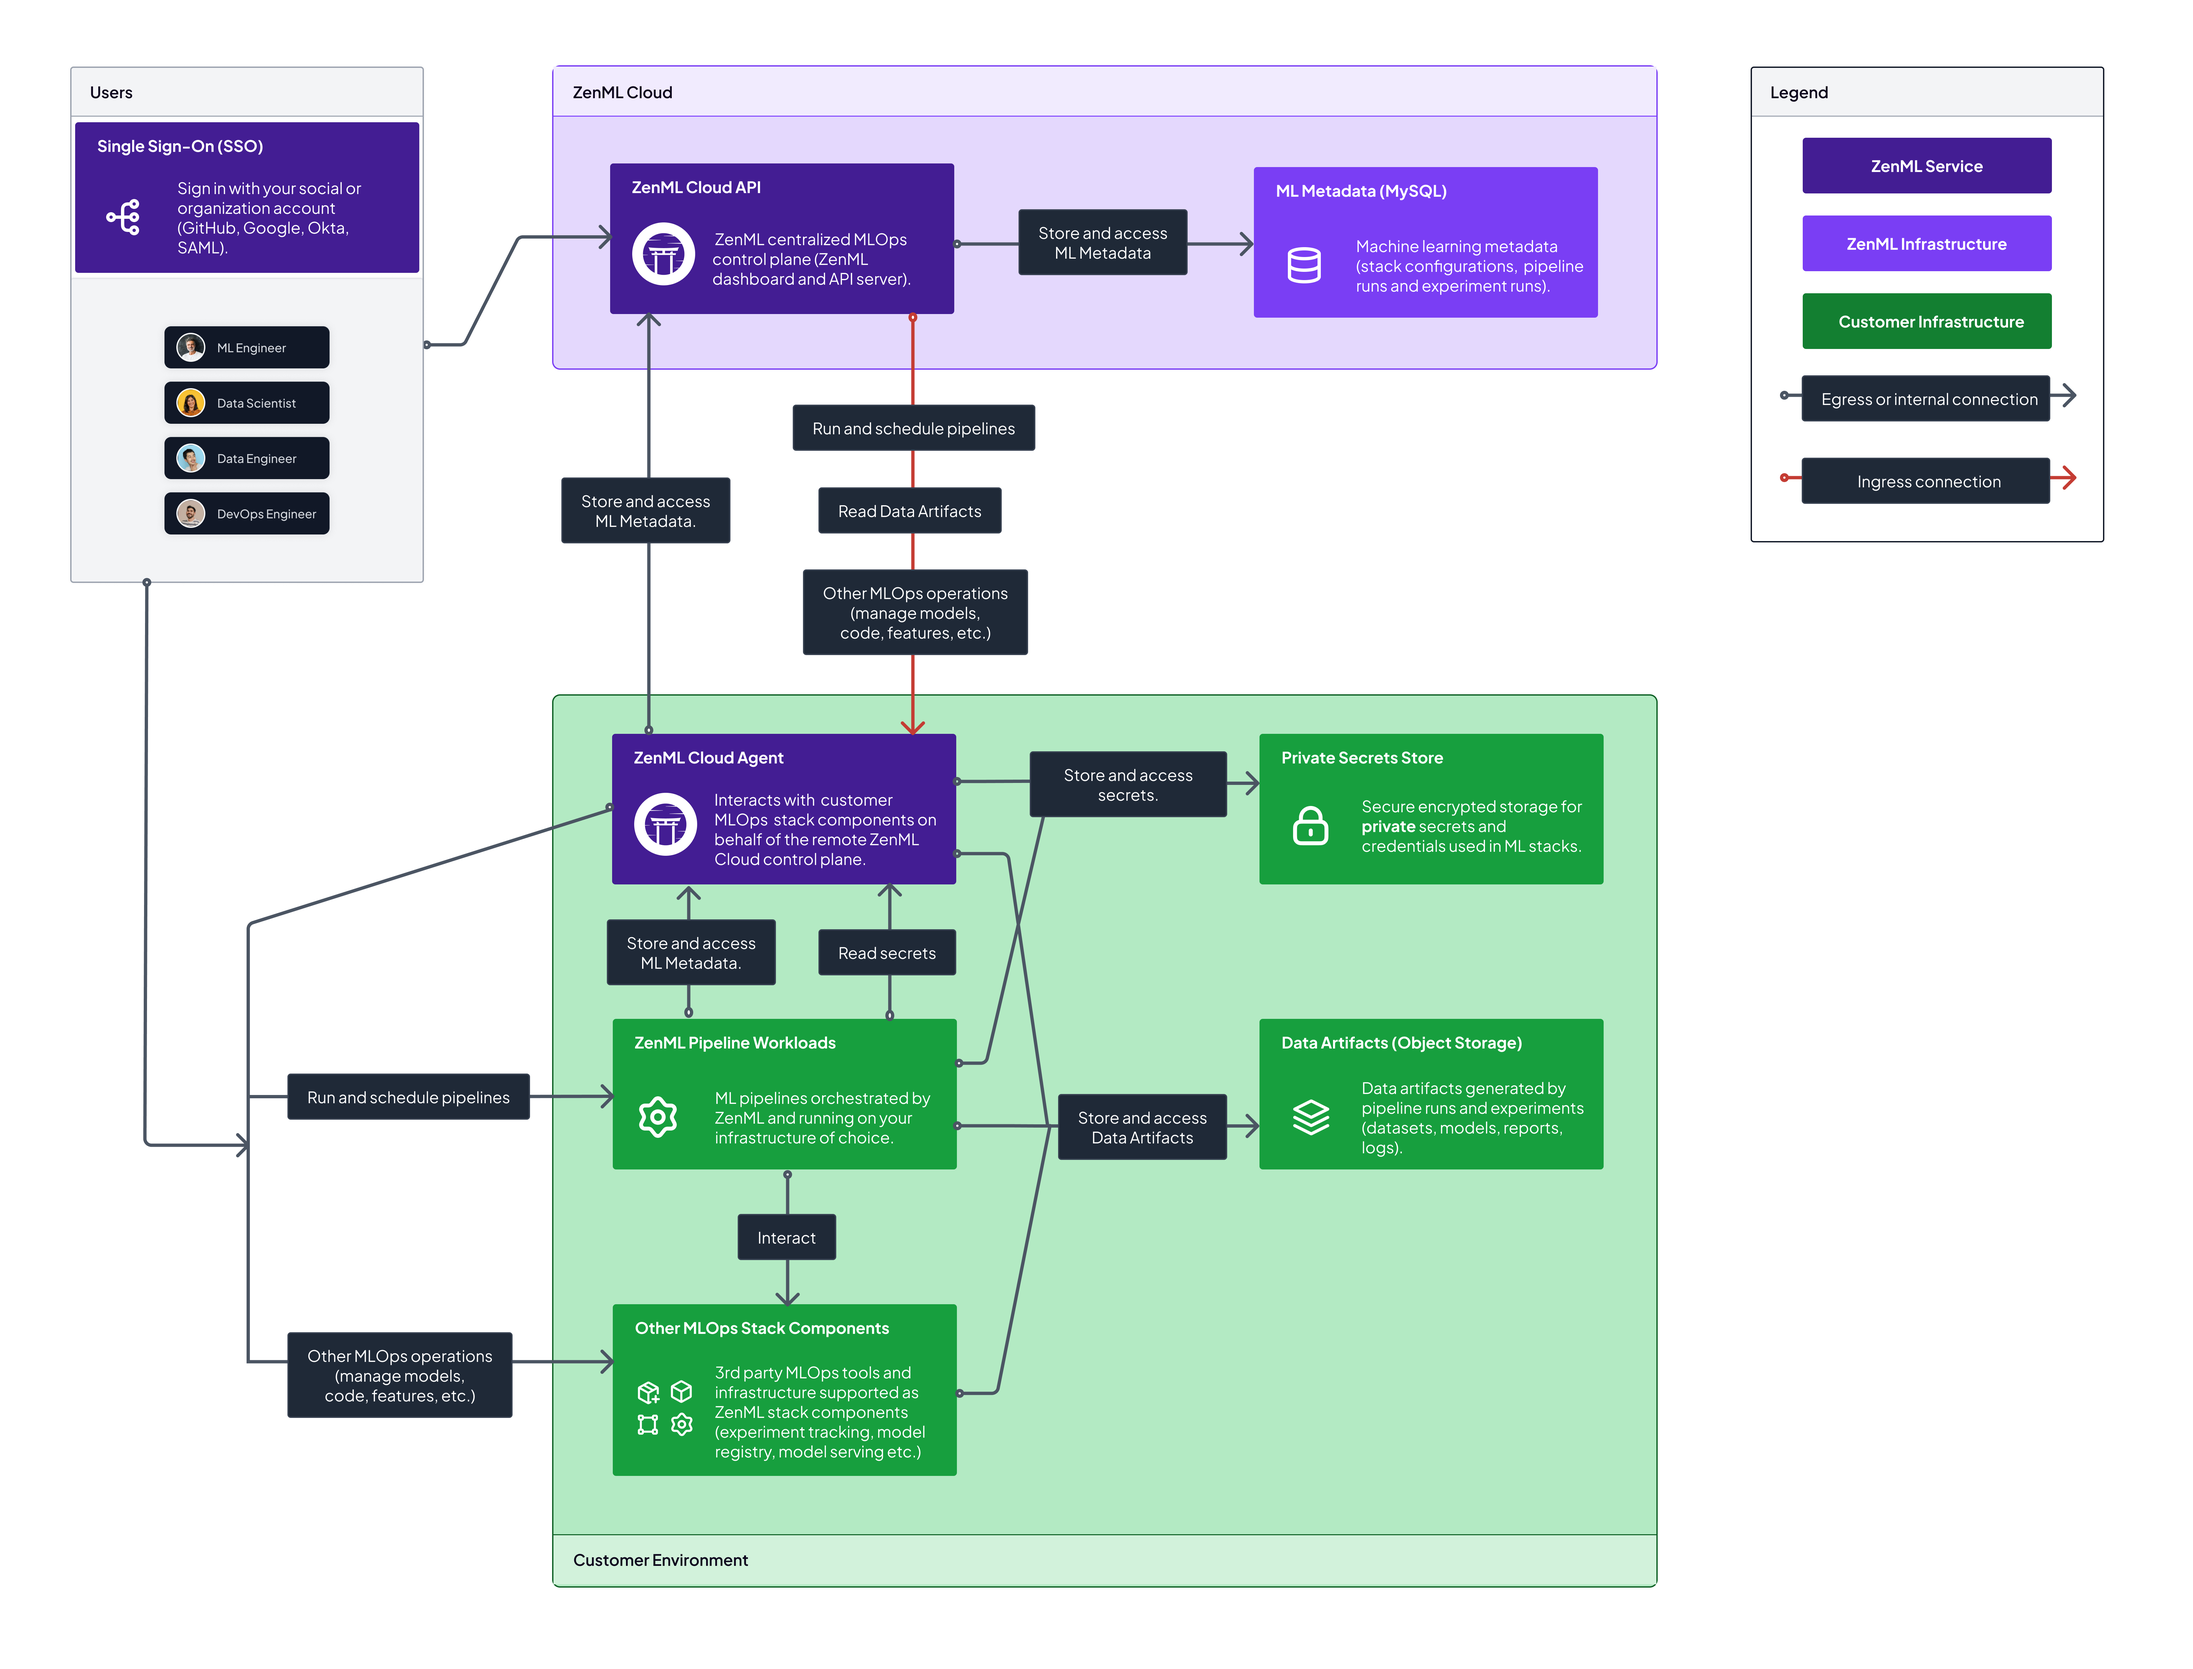
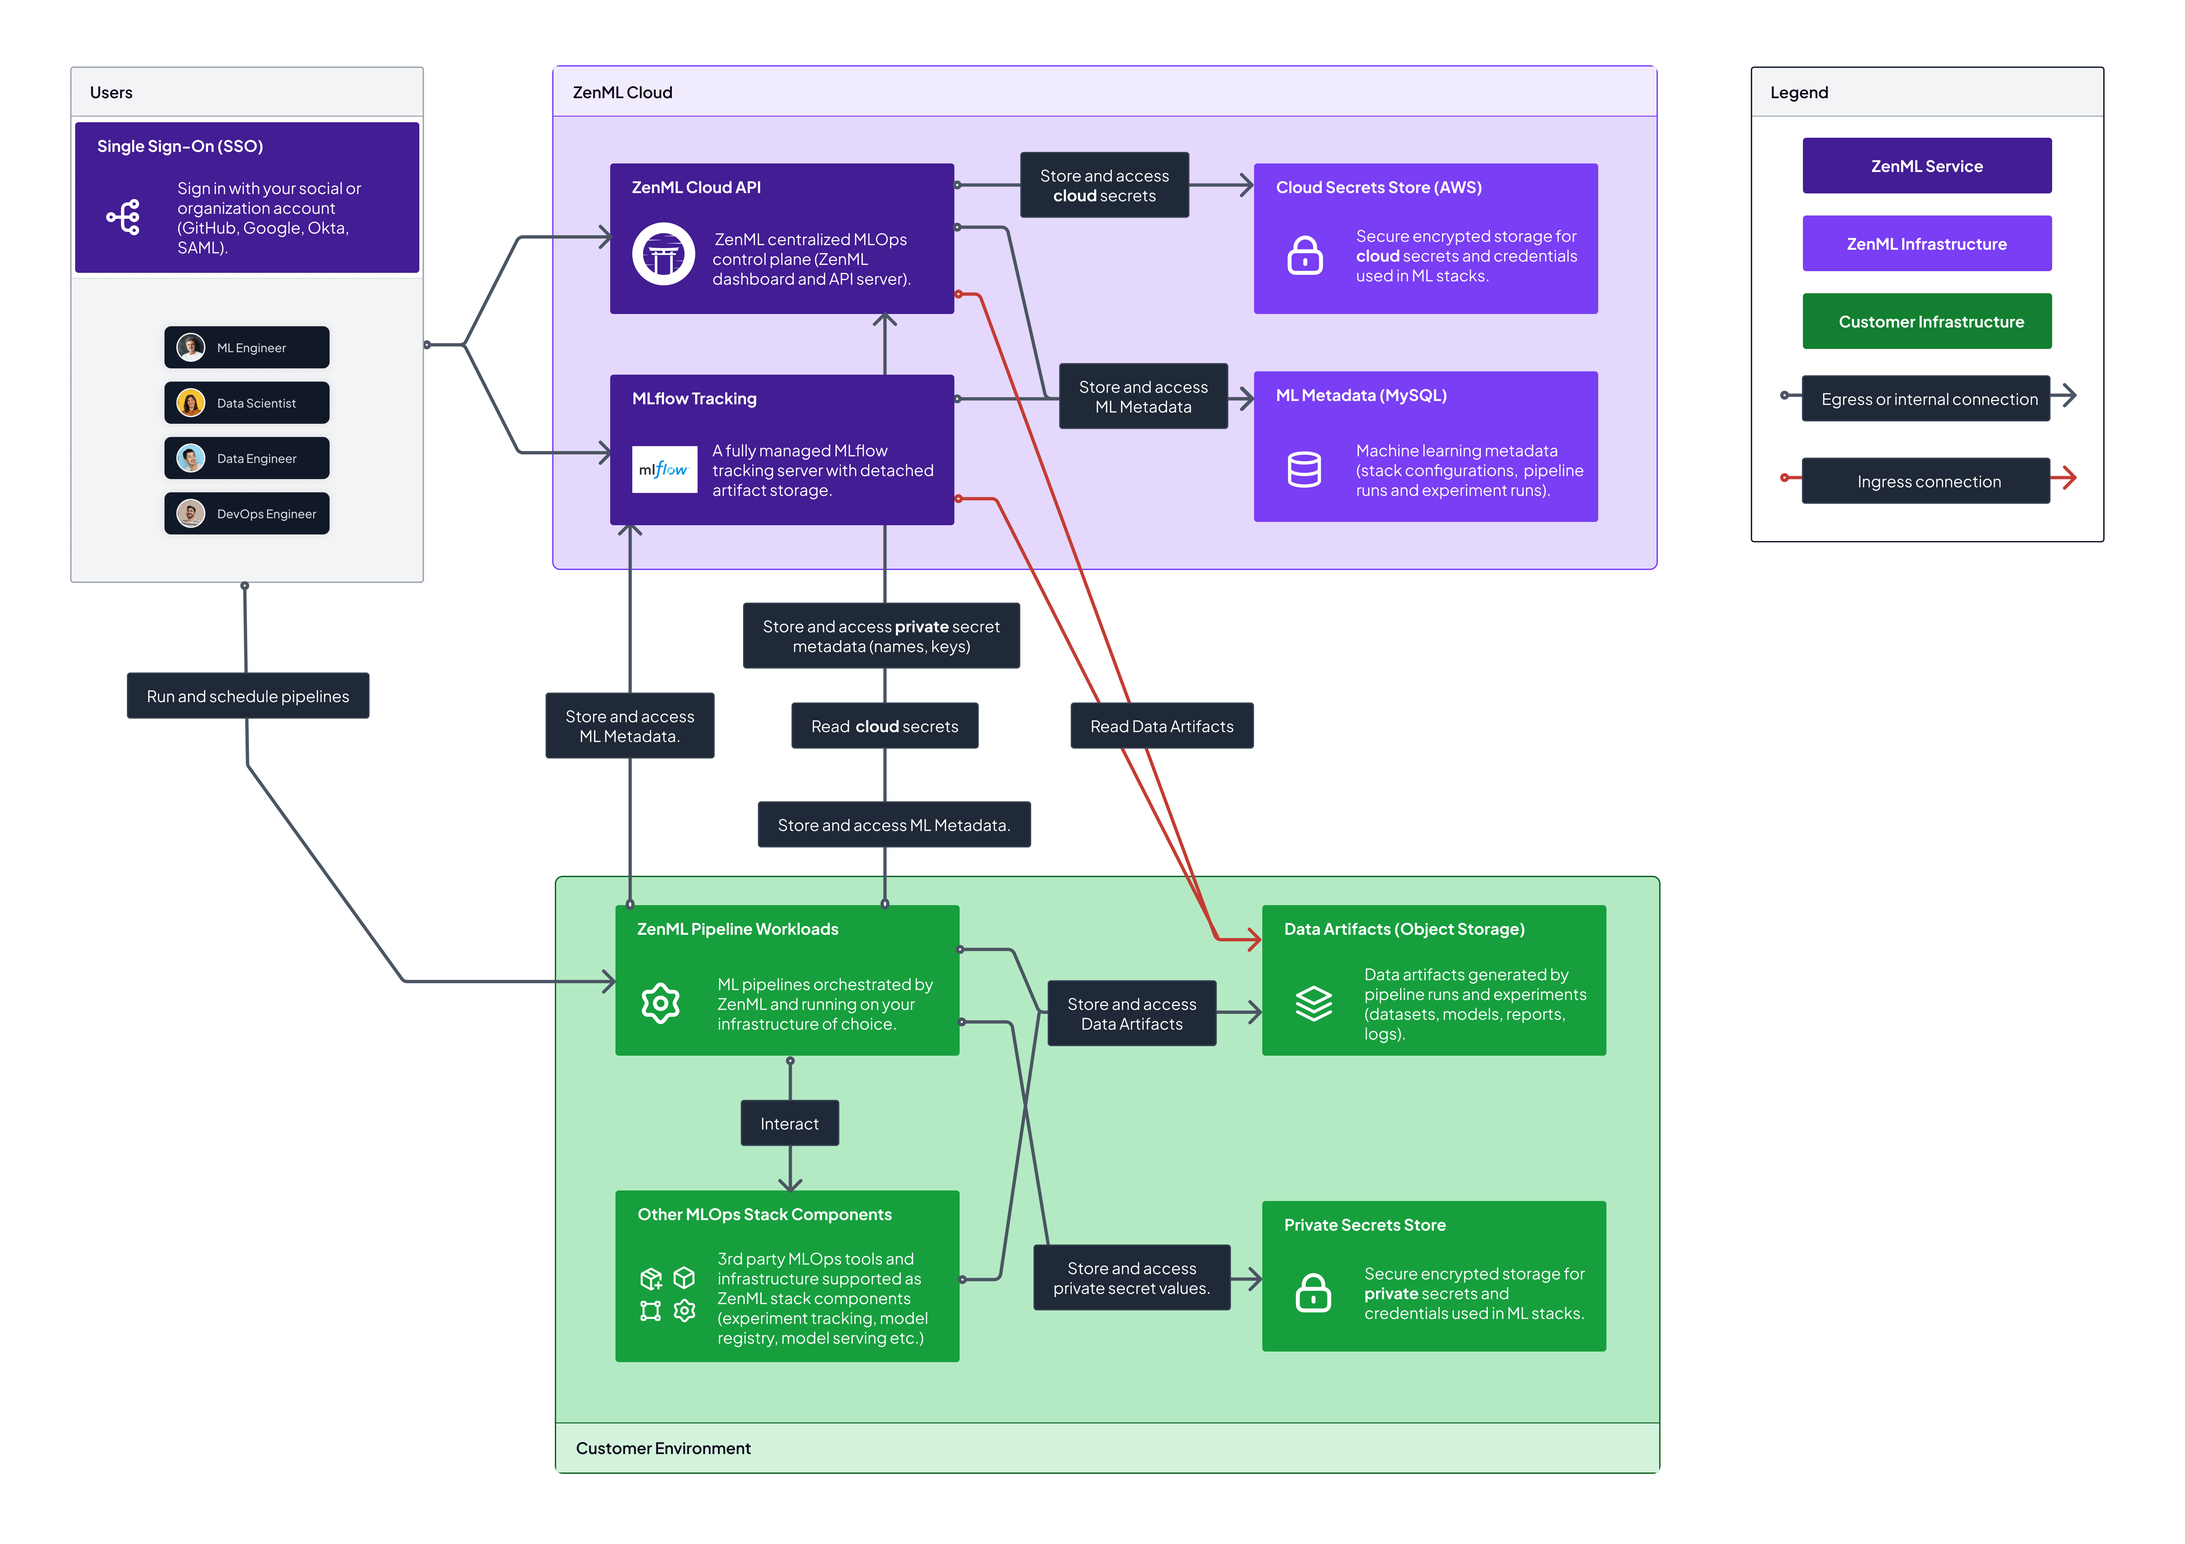
Added scenarios

diff --git a/docs/book/deploying-zenml/zenml-cloud/cloud-system-architecture.md b/docs/book/deploying-zenml/zenml-cloud/cloud-system-architecture.md
@@ -34,7 +34,7 @@ In this phase, the scenarios below are experimental and subject to change. For n
 
 In this scenario, all services are hosted on the ZenML Cloud infrastructure. The ZenML Cloud API and MLflow Tracking store secrets and data on the ZenML side. The Cloud API interact with the customer cloud for certain actions like triggering pipelines, deploying models etc.
 
-This scenario is meant for customers who want to get started quickly with ZenML Cloud and can to a certain extend expose ingress connections to an external SaaS provider. 
+This scenario is meant for customers who want to get started quickly with ZenML Cloud and can to a certain extent expose ingress connections to an external SaaS provider. Importantly, the data and secrets are all stored on ZenML Cloud side.
 
 ## Scenario 2a: Hybrid SaaS
 
@@ -42,11 +42,21 @@ This scenario is meant for customers who want to get started quickly with ZenML 
 <figure><img src="../../.gitbook/assets/cloud_architecture_scenario_2a.png" alt=""><figcaption><p>Scenario 2a: Hybrid SaaS deployment</p></figcaption></figure>
 </div>
 
+This scenario builds on top of Scenario 1, with the exception being that the "Data Artifacts" move over the customer cloud. This can be set up quite easily by setting up an [artifact store](../../stacks-and-components/component-guide/artifact-stores/) with your MLOps stack.
+
+In this scenario, the ZenML Cloud only stores metadata while the customer cloud keeps potentially sensitive customer data. However, if the customer wants access to special ZenML Cloud features like viewing artifacts on the dashboard, triggering pipeline runs, etc then they have to also provide [connectors](../../stacks-and-components/auth-management/service-connectors-guide.md) which are ultimately stored as secrets on the ZenML side. Therefore, while this scenario keeps the data on customer side, it still gives access to ZenML Cloud to trigger actions via an ingress connection over the internet into the customer cloud.
+
+Note, that ZenML encrypts all customer secrets at transit and at rest.
+
 ## Scenario 2b: Hybrid SaaS + Private Secret Store
 
 <div data-full-width="true">
 <figure><img src="../../.gitbook/assets/cloud_architecture_scenario_2b.png" alt=""><figcaption><p>Scenario 2a: Hybrid SaaS deployment + Private Secret Store</p></figcaption></figure>
 </div>
+
+This is almost the same as Scenario 2a, however in this the customer brings their own secret store to keep sensitive information on customer side. This allows users to use the [secrets API](../../user-guide/advanced-guide/secret-management/) and ensure their secrets do not leave their environment.
+
+The ZenML secret store still exists, and this is again to enable customers to create [connectors](../../stacks-and-components/auth-management/service-connectors-guide.md) to allow ZenML Cloud to triggers actions on their environment.
 
 ## Scenario 3: Agent Architecture
 
@@ -54,8 +64,16 @@ This scenario is meant for customers who want to get started quickly with ZenML 
 <figure><img src="../../.gitbook/assets/cloud_architecture_scenario_3.png" alt=""><figcaption><p>Scenario 3: ZenML Agent deployment</p></figcaption></figure>
 </div>
 
+This scenario adds a new architectural component into the mix, called the ZenML Agent, which facilitates communication between the two clouds. The customer is responsible for deploying and maintaining the ZenML Agent in their environment.
+
+The advantage of this deployment is that the ZenML Cloud does not need access to any sensitive secrets or need create any [connectors](../../stacks-and-components/auth-management/service-connectors-guide.md) to trigger actions customer side. Secrets and data remain on the customer environment, and only one secure ingress connection is exposed.
+
 ## Scenario 4: Fully On-prem
 
 <div data-full-width="true">
 <figure><img src="../../.gitbook/assets/cloud_architecture_scenario_4.png" alt=""><figcaption><p>Scenario 4: Fully on-premises deployment</p></figcaption></figure>
 </div>
+
+In this scenario, all services, data, and secrets are deployed on the customer cloud. This is the opposite of Scenario 1, and is meant for customers who require completely airgapped deployments, for the tightest security standards.
+
+Are you interested in the ZenML Cloud? While in beta, we're looking for early adopters to talk to! [Sign up](https://cloud.zenml.io) and get access to Scenario 2a with a free 30 day trial now!
